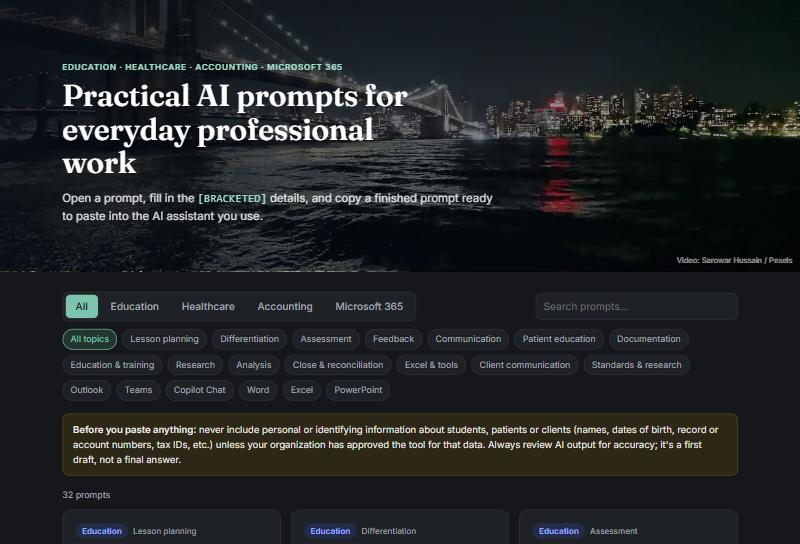
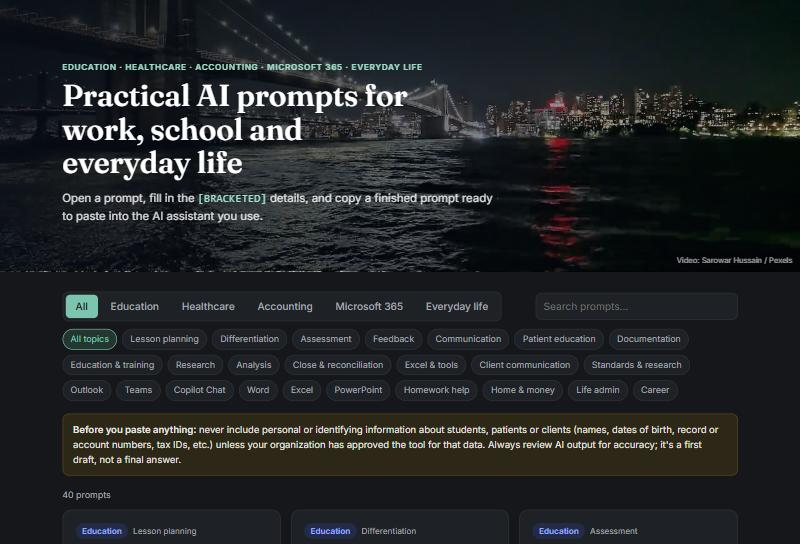
Add Everyday life prompts (homework help, home and money, life admin, career)

diff --git a/prompts.js b/prompts.js
@@ -1,7 +1,7 @@
 // ------------------------------------------------------------------
 // PROMPT LIBRARY
 // Add, edit, or remove prompts here. Each prompt needs:
-//   sector:   "education", "healthcare", "accounting" or "m365"
+//   sector:   "education", "healthcare", "accounting", "m365" or "life"
 //   category: a short label used for the filter chips
 //   title:    the card heading
 //   use:      one line on when to use it
@@ -485,5 +485,135 @@ Explain any formulas you add so I can check them.`
 - A final slide with the decision or next step we need
 
 Keep all figures exactly as they appear in the source.`
+  },
+
+  // ---------------- EVERYDAY LIFE ----------------
+  {
+    sector: "life",
+    category: "Homework help",
+    title: "Step-by-step tutor (no answers)",
+    use: "Work through a problem yourself with hints, not answers.",
+    prompt: `Act as a patient tutor for a [GRADE LEVEL] student. I'm stuck on this problem:
+
+[PASTE PROBLEM]
+
+Do not give me the answer. Instead:
+1. Ask me one guiding question at a time and wait for my reply
+2. If I get a step wrong, give a hint about where to look, not the correction
+3. When I reach the answer, ask me to explain why it works in my own words
+
+Start by asking what I already know about this kind of problem.`
+  },
+  {
+    sector: "life",
+    category: "Homework help",
+    title: "Check my work",
+    use: "Find your own mistakes without being handed the answer.",
+    prompt: `Here is a [SUBJECT] problem, my answer, and the steps I took:
+
+Problem: [PROBLEM]
+My steps and answer:
+[PASTE YOUR WORK]
+
+Tell me whether my answer is right. If it isn't, point to the first step where something went wrong and explain what kind of mistake it is (e.g. sign error, misread the question), but let me fix it myself. Then give me one similar practice problem to try.`
+  },
+  {
+    sector: "life",
+    category: "Homework help",
+    title: "Study plan before a test",
+    use: "Turn a test date and topic list into a daily plan.",
+    prompt: `I have a [SUBJECT] test in [DAYS UNTIL TEST] days. It covers:
+
+[TOPICS ON THE TEST]
+
+I can study about [TIME PER DAY, e.g. 45 minutes] a day. My weakest areas are [WEAK TOPICS].
+
+Make a day-by-day study plan that:
+- Spends more time on my weak areas
+- Uses active recall and practice problems, not just rereading
+- Revisits earlier topics briefly (spaced review)
+- Keeps the day before the test light
+
+End with a 10-question practice quiz covering everything, with answers at the bottom.`
+  },
+  {
+    sector: "life",
+    category: "Homework help",
+    title: "Help me help my kid",
+    use: "For parents: understand how a topic is taught today.",
+    prompt: `My child is in [GRADE LEVEL] and is learning [TOPIC, e.g. long division with the area model]. I learned it differently and don't want to confuse them.
+
+Explain:
+1. How this method works, with one worked example
+2. Why schools teach it this way
+3. Three questions I can ask to help without giving the answer
+4. Common mistakes kids make with it, and how to spot them
+
+Keep it short and practical. I'm helping at the kitchen table, not teaching a class.`
+  },
+  {
+    sector: "life",
+    category: "Home & money",
+    title: "Weekly meal plan and grocery list",
+    use: "Plan a week of meals on a budget.",
+    prompt: `Create a 7-day dinner plan for [NUMBER OF PEOPLE] people with a grocery budget of about [WEEKLY BUDGET].
+
+Needs: [DIETARY NEEDS, e.g. one vegetarian, no nuts]
+Time: most dinners under [COOKING TIME, e.g. 30 minutes]
+Already have: [INGREDIENTS ON HAND]
+
+Reuse ingredients across meals to cut waste, include one leftovers night, and finish with a grocery list grouped by store section with estimated costs. Note that prices are estimates and vary by store.`
+  },
+  {
+    sector: "life",
+    category: "Home & money",
+    title: "Monthly budget starter",
+    use: "Organize your spending and find room to save.",
+    prompt: `Help me build a simple monthly budget. Rough numbers only; I won't share account details.
+
+Monthly take-home income: [MONTHLY INCOME]
+Regular expenses:
+[LIST EXPENSES AND AMOUNTS, e.g. rent 1200, car 300, phone 60]
+
+Please:
+1. Sort my expenses into needs, wants, and savings, and show the percentages
+2. Compare that with the 50/30/20 guideline and explain it in plain terms
+3. Suggest 3 realistic places to trim, with the monthly savings for each
+4. Help me set one savings goal: [SAVINGS GOAL, e.g. a 1,000 emergency fund]
+
+This is general budgeting help, not financial advice.`
+  },
+  {
+    sector: "life",
+    category: "Life admin",
+    title: "Explain a confusing letter or bill",
+    use: "Understand official mail and what you need to do.",
+    prompt: `I received this [TYPE OF DOCUMENT, e.g. medical bill / letter from my landlord / insurance notice] and I don't understand it. I've removed my name, address and account numbers.
+
+[PASTE THE TEXT]
+
+Explain in plain language:
+1. What this is and why I got it
+2. What, if anything, I need to do, and by when
+3. Any terms I might not know
+4. Questions I should ask, and who to call
+
+If anything looks unusual or possibly a scam, point it out. If it's a legal or medical matter, tell me what kind of professional could help.`
+  },
+  {
+    sector: "life",
+    category: "Career",
+    title: "Resume bullet makeover",
+    use: "Turn plain job duties into strong, results-focused bullets.",
+    prompt: `Rewrite these resume bullets for a [TARGET ROLE] position:
+
+[PASTE CURRENT BULLETS]
+
+For each bullet:
+- Start with a strong action verb
+- Show impact or results; if a number would help, ask me for it instead of making one up
+- Keep it to one line where possible
+
+Then suggest 2 skills or keywords from typical [TARGET ROLE] job postings that my bullets don't show yet, and ask me whether I have experience with them.`
   }
 ];

diff --git a/index.html b/index.html
@@ -4,11 +4,11 @@
   <meta charset="utf-8">
   <meta name="viewport" content="width=device-width, initial-scale=1">
   <title>AI Prompt Library</title>
-  <meta name="description" content="Ready-to-use AI prompts for educators, healthcare teams, accountants and Microsoft 365 Copilot users, with an interactive prompt builder.">
+  <meta name="description" content="Ready-to-use AI prompts for educators, healthcare teams, accountants, Microsoft 365 Copilot users, students and families, with an interactive prompt builder.">
   <link rel="preconnect" href="https://fonts.googleapis.com">
   <link rel="preconnect" href="https://fonts.gstatic.com" crossorigin>
   <link href="https://fonts.googleapis.com/css2?family=Fraunces:opsz,wght@9..144,600&family=Inter:wght@400;500;600&display=swap" rel="stylesheet">
-  <link rel="stylesheet" href="styles.css?v=4">
+  <link rel="stylesheet" href="styles.css?v=5">
 </head>
 <body>
   <header class="hero">
@@ -16,8 +16,8 @@
     <div class="hero-shade" aria-hidden="true"></div>
     <a class="credit" href="https://www.pexels.com/video/time-lapse-view-of-brooklyn-bridge-at-night-5606315/" target="_blank" rel="noopener">Video: Sarowar Hussain / Pexels</a>
     <div class="wrap">
-      <p class="eyebrow">Education · Healthcare · Accounting · Microsoft 365</p>
-      <h1>Practical AI prompts for everyday professional work</h1>
+      <p class="eyebrow">Education · Healthcare · Accounting · Microsoft 365 · Everyday life</p>
+      <h1>Practical AI prompts for work, school and everyday life</h1>
       <p class="lede">Open a prompt, fill in the <span class="ph">[BRACKETED]</span> details, and copy a finished prompt ready to paste into the AI assistant you use.</p>
     </div>
   </header>
@@ -30,6 +30,7 @@
         <button class="tab" data-sector="healthcare" role="tab" aria-selected="false">Healthcare</button>
         <button class="tab" data-sector="accounting" role="tab" aria-selected="false">Accounting</button>
         <button class="tab" data-sector="m365" role="tab" aria-selected="false">Microsoft 365</button>
+        <button class="tab" data-sector="life" role="tab" aria-selected="false">Everyday life</button>
       </div>
       <input id="search" type="search" placeholder="Search prompts…" aria-label="Search prompts">
     </div>
@@ -77,7 +78,7 @@
     </article>
   </template>
 
-  <script src="prompts.js?v=4"></script>
-  <script src="app.js?v=4"></script>
+  <script src="prompts.js?v=5"></script>
+  <script src="app.js?v=5"></script>
 </body>
 </html>

diff --git a/styles.css b/styles.css
@@ -14,6 +14,8 @@
   --acct-soft: #fbf0d9;
   --m365: #0e6f8f;
   --m365-soft: #e0f2f8;
+  --life: #6b4fbb;
+  --life-soft: #efeafb;
   --notice: #fff7e0;
   --notice-border: #ecd48a;
   --code-bg: #f3f1ec;
@@ -35,6 +37,8 @@
     --acct-soft: #3d3120;
     --m365: #6fd0ee;
     --m365-soft: #173642;
+    --life: #c3b1ff;
+    --life-soft: #2e2645;
     --notice: #2c2716;
     --notice-border: #5c4e1f;
     --code-bg: #17191c;
@@ -120,6 +124,7 @@ h1 {
 .badge.healthcare { background: var(--health-soft); color: var(--health); }
 .badge.accounting { background: var(--acct-soft); color: var(--acct); }
 .badge.m365 { background: var(--m365-soft); color: var(--m365); }
+.badge.life { background: var(--life-soft); color: var(--life); }
 .cat { color: var(--muted); }
 .card h3 { margin: 4px 0 0; font-size: 18px; line-height: 1.3; }
 .use { margin: 0; color: var(--muted); font-size: 15px; }

diff --git a/app.js b/app.js
@@ -13,7 +13,8 @@
     education: "Education",
     healthcare: "Healthcare",
     accounting: "Accounting",
-    m365: "Microsoft 365"
+    m365: "Microsoft 365",
+    life: "Everyday life"
   };
   const PLACEHOLDER = /\[[^\]]+\]/g;
 

diff --git a/README.md b/README.md
@@ -1,10 +1,10 @@
-# AI Prompt Library for Professionals
+# AI Prompt Library for Work, School & Everyday Life
 
 **Live site: [sleepeq-null.github.io/AI-prompts-library](https://sleepeq-null.github.io/AI-prompts-library/)**
 
-A searchable library of 32 ready-to-use AI prompts for **educators, healthcare teams, accountants and Microsoft 365 Copilot users**, with an interactive builder that turns a prompt template into a finished prompt you can copy and paste into any AI assistant.
+A searchable library of 40 ready-to-use AI prompts for **educators, healthcare teams, accountants, Microsoft 365 Copilot users, students and families**, with an interactive builder that turns a prompt template into a finished prompt you can copy and paste into any AI assistant.
 
-![Home page with looping Brooklyn Bridge video header, tabs for Education, Healthcare, Accounting and Microsoft 365, topic filters and prompt cards](assets/screenshot-home.jpg)
+![Home page with looping Brooklyn Bridge video header, tabs for Education, Healthcare, Accounting, Microsoft 365 and Everyday life, topic filters and prompt cards](assets/screenshot-home.jpg)
 
 ## What's inside
 
@@ -14,11 +14,12 @@ A searchable library of 32 ready-to-use AI prompts for **educators, healthcare t
 | **Healthcare** | Plain-language patient handouts, SOAP and SBAR formatting, teaching cases, research summaries |
 | **Accounting** | Budget vs. actual commentary, month-end close checklists, reconciliation troubleshooting, Excel formulas, technical memos |
 | **Microsoft 365 Copilot** | Outlook thread summaries, Teams meeting recaps, Word drafts from files, Excel insights, PowerPoint decks from documents |
+| **Everyday life** | Homework tutor that gives hints instead of answers, study plans, help for parents, meal plans, budgets, decoding confusing letters, resume bullets |
 
 ## Features
 
 - **Interactive prompt builder.** Each prompt's `[PLACEHOLDERS]` become form fields automatically. As you type, a live preview highlights what you've filled in and what's still blank, and **Copy prompt** copies the finished text.
-- **Filter and search.** Switch between four areas, narrow by topic, or search across titles and prompt text.
+- **Filter and search.** Switch between five areas, narrow by topic, or search across titles and prompt text.
 - **Privacy built in.** A visible notice and paste-field hints remind users never to include student, patient or client identifiers. Healthcare and accounting prompts ask for de-identified data (no account numbers) and tell the AI not to invent findings or figures.
 - **Accessible and responsive.** Labelled form fields, keyboard-friendly controls, automatic dark mode, a layout that works at phone width, and a background video that holds still for visitors who have "reduce motion" turned on.
 - **No build step.** Plain HTML, CSS and JavaScript, so it's fast, easy to host, and easy for non-developers to edit.
@@ -48,7 +49,8 @@ Adding a new prompt with new placeholders needs no code changes: the form genera
 - **Static site over a framework.** The content is small and changes rarely, so plain HTML, CSS and JavaScript keeps the site fast, dependency-free and free to host on GitHub Pages.
 - **Prompts in a `.js` file, not `.json`.** A `<script>` tag loads it, so the page also works opened straight from disk, where browsers block `fetch()` of local files.
 - **Safe rendering.** Prompt text and user input are HTML-escaped before being highlighted in the preview, so pasted content can't inject markup.
-- **Cache-busting.** GitHub Pages lets browsers cache files for about 10 minutes, which once caused new HTML to load with an old stylesheet. Asset links carry a version query (`styles.css?v=4`) that changes with each release.
+- **Cache-busting.** GitHub Pages lets browsers cache files for about 10 minutes, which once caused new HTML to load with an old stylesheet. Asset links carry a version query (`styles.css?v=5`) that changes with each release.
+- **Homework prompts that teach, not cheat.** The homework prompts tell the AI to ask guiding questions, give hints, and point to where a mistake is rather than handing over answers. Students get help learning, which is also what teachers and parents want.
 - **Lightweight media.** The 12-second header video is the 720p version (3.6 MB), muted, looping and inline, under a gradient that keeps the text readable.
 
 ## Prompt-writing approach
@@ -68,8 +70,7 @@ Add an object to `prompts.js`:
 
 ```js
 {
-  sector: "education",          // or "healthcare", "accounting", "m365"
-  category: "Assessment",       // new categories become filter chips automatically
+  sector: "education",          // or "healthcare", "accounting", "m365", "life"`n  category: "Assessment",       // new categories become filter chips automatically
   title: "Short card title",
   use: "One line on when to use it.",
   prompt: `The full prompt text.
@@ -77,7 +78,7 @@ Use [BRACKETS] for anything the reader fills in, e.g. [TOPIC, e.g. fractions].`
 },
 ```
 
-Then change `?v=4` to the next number in `index.html` so returning visitors get the update.
+Then change `?v=5` to the next number in `index.html` so returning visitors get the update.
 
 ## Run locally
 
